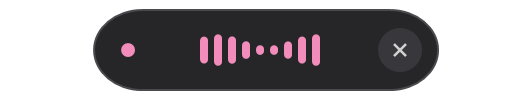
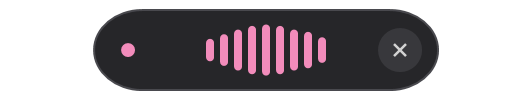
feat: amplify live waveform and center indicator above taskbar

Changed region(s): [[0.3609, 0.24, 0.6316, 0.75]]

diff --git a/src/OpenAIDictation.Windows/OverlayWindow.cs b/src/OpenAIDictation.Windows/OverlayWindow.cs
@@ -2,6 +2,7 @@ using System.Windows;
 using System.Windows.Interop;
 using System.Windows.Media;
 using System.Windows.Threading;
+using System.Diagnostics;
 
 namespace OpenAIDictation.Windows;
 
@@ -10,12 +11,13 @@ internal sealed class OverlayWindow:Window
 {
     private readonly Indicator indicator=new();
     private readonly DispatcherTimer timer;
+    private long lastTick;
     public event Action? StopRequested;
     public event Action? CancelRequested;
     public OverlayWindow()
     {
         Title="OpenAI Dictation Indicator";
-        Width=266;Height=50;WindowStyle=WindowStyle.None;ResizeMode=ResizeMode.NoResize;AllowsTransparency=true;
+        Width=IndicatorLayout.WindowWidth;Height=IndicatorLayout.WindowHeight;WindowStyle=WindowStyle.None;ResizeMode=ResizeMode.NoResize;AllowsTransparency=true;
         Background=Brushes.Transparent;Topmost=true;ShowActivated=false;ShowInTaskbar=false;Content=indicator;
         SourceInitialized+=(_,_)=>{nint handle=new WindowInteropHelper(this).Handle;NativeMethods.SetWindowLongPtr(handle,-20,NativeMethods.GetWindowLongPtr(handle,-20)|0x08000000|0x80);};
         MouseLeftButtonUp+=(_,e)=>
@@ -23,34 +25,48 @@ internal sealed class OverlayWindow:Window
             double width=indicator.State==OverlayState.Recording?172:216;
             if(e.GetPosition(this).X>(ActualWidth-width)/2+width-35 || indicator.State!=OverlayState.Recording)CancelRequested?.Invoke();else StopRequested?.Invoke();
         };
-        timer=new DispatcherTimer{Interval=TimeSpan.FromMilliseconds(33)};
-        timer.Tick+=(_,_)=>{indicator.Time+=.033;indicator.InvalidateVisual();};
-        IsVisibleChanged+=(_,_)=>{if(IsVisible)timer.Start();else timer.Stop();};
+        timer=new DispatcherTimer{Interval=TimeSpan.FromMilliseconds(16)};
+        timer.Tick+=(_,_)=>
+        {
+            long now=Stopwatch.GetTimestamp();double elapsed=Stopwatch.GetElapsedTime(lastTick,now).TotalSeconds;lastTick=now;
+            indicator.Time+=elapsed;indicator.Signal.Advance(elapsed);indicator.InvalidateVisual();
+        };
+        IsVisibleChanged+=(_,_)=>{if(IsVisible){lastTick=Stopwatch.GetTimestamp();timer.Start();}else timer.Stop();};
     }
     public void Present(OverlayState state,nint target,string? message=null)
     {
-        indicator.State=state;indicator.Message=message??"";indicator.Level=0;
+        indicator.State=state;indicator.Message=message??"";indicator.Signal.Reset();
         var monitor=NativeMethods.MonitorFromWindow(target,2);var info=new NativeMethods.MonitorInfo{Size=(uint)System.Runtime.InteropServices.Marshal.SizeOf<NativeMethods.MonitorInfo>()};
-        NativeMethods.GetMonitorInfo(monitor,ref info);Show();
+        if(!NativeMethods.GetMonitorInfo(monitor,ref info))throw new InvalidOperationException("The display could not be located.");
         uint dpiX=96,dpiY=96;NativeMethods.GetDpiForMonitor(monitor,0,out dpiX,out dpiY);
-        double scaleX=Math.Max(96,dpiX)/96.0,scaleY=Math.Max(96,dpiY)/96.0;
-        int width=(int)Math.Round(Width*scaleX),height=(int)Math.Round(Height*scaleY);
-        NativeMethods.SetWindowPos(new WindowInteropHelper(this).Handle,0,(info.Monitor.Left+info.Monitor.Right-width)/2,info.Monitor.Bottom-(int)Math.Round(40*scaleY)-height,width,height,0x0010|0x0004);
+        var bounds=IndicatorLayout.Calculate(info.Monitor.Left,info.Monitor.Right,info.Work.Top,info.Work.Bottom,dpiX==0?96:dpiX,dpiY==0?96:dpiY);
+        nint handle=new WindowInteropHelper(this).EnsureHandle();
+        Place(handle,bounds);Show();Place(handle,bounds);
         indicator.InvalidateVisual();
     }
-    public void SetLevel(float value)=>indicator.Level=value;
+    private static void Place(nint handle,IndicatorBounds bounds)=>NativeMethods.SetWindowPos(handle,0,bounds.Left,bounds.Top,bounds.Width,bounds.Height,0x0010|0x0004);
+    public void SetLevel(float value)=>indicator.Signal.Observe(value);
     private sealed class Indicator:FrameworkElement
     {
-        internal OverlayState State;internal float Level;internal double Time;internal string Message="";
-        private static readonly Brush Pink=new SolidColorBrush(Color.FromRgb(242,140,187));
+        internal OverlayState State;internal double Time;internal string Message="";
+        internal readonly VoiceSignal Signal=new();
+        private static readonly Brush Pink=Solid(Color.FromRgb(242,140,187));
+        private static readonly Brush Surface=Solid(Color.FromArgb(250,35,35,38));
+        private static readonly Brush CancelSurface=Solid(Color.FromRgb(56,56,60));
+        private static readonly Pen Border=Line(Solid(Color.FromRgb(73,73,78)),1);
+        private static readonly Pen CancelLine=Line(Brushes.LightGray,1.2);
+        private static readonly Pen SpinnerLine=Line(Pink,1.6);
+        private static Brush Solid(Color color){var value=new SolidColorBrush(color);value.Freeze();return value;}
+        private static Pen Line(Brush brush,double thickness){var value=new Pen(brush,thickness);value.Freeze();return value;}
         protected override void OnRender(DrawingContext dc)
         {
             double width=State==OverlayState.Recording?172:216,left=(ActualWidth-width)/2;
-            dc.DrawRoundedRectangle(new SolidColorBrush(Color.FromArgb(250,35,35,38)),new Pen(new SolidColorBrush(Color.FromRgb(73,73,78)),1),new Rect(left,5,width,40),24,24);
+            dc.DrawRoundedRectangle(Surface,Border,new Rect(left,5,width,40),24,24);
             dc.DrawEllipse(State==OverlayState.Error?Brushes.IndianRed:Pink,null,new Point(left+17,25),3.5,3.5);
             if(State==OverlayState.Recording)
             {
-                for(int i=0;i<9;i++){double height=3+15*Math.Min(1,Level*(.55+.45*Math.Sin(Time*13+i*.9)));dc.DrawRoundedRectangle(Pink,null,new Rect(left+53+i*7,25-height/2,4,height),2,2);}
+                double first=left+(width-(VoiceSignal.BarCount*4+(VoiceSignal.BarCount-1)*3))/2;
+                for(int i=0;i<VoiceSignal.BarCount;i++){double height=Signal.Height(i);dc.DrawRoundedRectangle(Pink,null,new Rect(first+i*7,25-height/2,4,height),2,2);}
             }
             else
             {
@@ -58,12 +74,12 @@ internal sealed class OverlayWindow:Window
                 {
                     dc.PushTransform(new RotateTransform(Time*260,left+37,25));
                     var geometry=new StreamGeometry();using(var path=geometry.Open()){path.BeginFigure(new Point(left+37,18.5),false,false);path.ArcTo(new Point(left+30.5,25),new Size(6.5,6.5),0,true,SweepDirection.Clockwise,true,false);}
-                    dc.DrawGeometry(null,new Pen(Pink,1.6),geometry);dc.Pop();
+                    dc.DrawGeometry(null,SpinnerLine,geometry);dc.Pop();
                 }
                 var text=new FormattedText(State==OverlayState.Error?"Dictation error":"Processing",System.Globalization.CultureInfo.CurrentUICulture,FlowDirection.LeftToRight,new Typeface("Segoe UI"),12,Brushes.Gainsboro,VisualTreeHelper.GetDpi(this).PixelsPerDip);dc.DrawText(text,new Point(left+51,17));
             }
-            double cx=left+width-19;dc.DrawEllipse(new SolidColorBrush(Color.FromRgb(56,56,60)),null,new Point(cx,25),11,11);
-            var pen=new Pen(Brushes.LightGray,1.2);dc.DrawLine(pen,new Point(cx-3,22),new Point(cx+3,28));dc.DrawLine(pen,new Point(cx+3,22),new Point(cx-3,28));
+            double cx=left+width-19;dc.DrawEllipse(CancelSurface,null,new Point(cx,25),11,11);
+            dc.DrawLine(CancelLine,new Point(cx-3,22),new Point(cx+3,28));dc.DrawLine(CancelLine,new Point(cx+3,22),new Point(cx-3,28));
         }
     }
 }

diff --git a/tests/OpenAIDictation.Windows.Tests/IndicatorTests.cs b/tests/OpenAIDictation.Windows.Tests/IndicatorTests.cs
@@ -1,0 +1,61 @@
+using OpenAIDictation.Windows;
+
+namespace OpenAIDictation.Windows.Tests;
+
+public sealed class IndicatorTests
+{
+    [Theory]
+    [InlineData(0,1920,0,1040,96,96)]
+    [InlineData(-2560,0,-200,1200,144,144)]
+    [InlineData(1920,5760,120,2160,192,192)]
+    [InlineData(-1919,0,0,1000,120,144)]
+    public void WindowIsCenteredOnFullMonitorAndAboveWorkArea(int left,int right,int top,int bottom,uint dx,uint dy)
+    {
+        var b=IndicatorLayout.Calculate(left,right,top,bottom,dx,dy);
+        Assert.InRange(Math.Abs((b.Left+b.Width/2d)-(left+((long)right-left)/2d)),0,.5);
+        Assert.Equal(bottom-(int)Math.Round(IndicatorLayout.TaskbarGap*dy/96d),b.Top+b.Height);
+        Assert.Equal((int)Math.Round(IndicatorLayout.WindowWidth*dx/96d),b.Width);
+        Assert.Equal((int)Math.Round(IndicatorLayout.WindowHeight*dy/96d),b.Height);
+    }
+    [Fact] public void WorkAreaNotMonitorBottomDeterminesTaskbarClearance()
+    {
+        var normal=IndicatorLayout.Calculate(0,1920,0,1040,96,96);
+        var tallTaskbar=IndicatorLayout.Calculate(0,1920,0,950,96,96);
+        Assert.Equal(90,normal.Top-tallTaskbar.Top);
+    }
+    [Fact] public void InvalidDisplaysFailWithoutOffscreenCoordinates()
+    {
+        Assert.Throws<ArgumentOutOfRangeException>(()=>IndicatorLayout.Calculate(0,0,0,1040,96,96));
+        Assert.Throws<ArgumentOutOfRangeException>(()=>IndicatorLayout.Calculate(0,1920,0,1040,0,96));
+    }
+    [Fact] public void SilenceRemainsFlatWithoutTimeDrivenFakeSpeech()
+    {
+        var signal=new VoiceSignal();signal.Observe(.01f);
+        for(int i=0;i<90;i++)signal.Advance(1d/60);
+        for(int bar=0;bar<VoiceSignal.BarCount;bar++)Assert.Equal(VoiceSignal.QuietHeight,signal.Height(bar));
+    }
+    [Fact] public void OrdinarySpeechProducesLargePeaksQuickly()
+    {
+        var signal=new VoiceSignal();signal.Observe(.12f);
+        for(int i=0;i<6;i++)signal.Advance(1d/60);
+        Assert.InRange(signal.Height(4),24,VoiceSignal.PeakHeight);
+        Assert.True(signal.Height(4)>signal.Height(0)*1.7);
+    }
+    [Fact] public void PausingSmoothlyReturnsToTheQuietLine()
+    {
+        var signal=new VoiceSignal();signal.Observe(.2f);
+        for(int i=0;i<30;i++)signal.Advance(1d/60);
+        double high=signal.Height(4);signal.Observe(0);signal.Advance(1d/60);
+        Assert.InRange(signal.Height(4),VoiceSignal.QuietHeight+1,high);
+        for(int i=0;i<60;i++)signal.Advance(1d/60);
+        for(int bar=0;bar<VoiceSignal.BarCount;bar++)Assert.InRange(signal.Height(bar),VoiceSignal.QuietHeight,VoiceSignal.QuietHeight+.1);
+    }
+    [Fact] public void NonfiniteInputAndClockValuesCannotCorruptTheDrawing()
+    {
+        var signal=new VoiceSignal();signal.Observe(float.NaN);signal.Advance(double.NaN);signal.Advance(-1);
+        Assert.Equal(VoiceSignal.QuietHeight,signal.Height(4));
+        signal.Observe(float.MaxValue);for(int i=0;i<100;i++)signal.Advance(.016);
+        Assert.InRange(signal.Height(4),VoiceSignal.QuietHeight,VoiceSignal.PeakHeight);
+        signal.Reset();Assert.Equal(VoiceSignal.QuietHeight,signal.Height(4));
+    }
+}

diff --git a/src/OpenAIDictation.Windows/VoiceSignal.cs b/src/OpenAIDictation.Windows/VoiceSignal.cs
@@ -1,0 +1,35 @@
+namespace OpenAIDictation.Windows;
+
+/// <summary>Speech-driven envelope with strong gain, quick attack and a short trailing history.</summary>
+internal sealed class VoiceSignal
+{
+    internal const int BarCount=9;
+    internal const double QuietHeight=2.5,PeakHeight=32;
+    private static readonly double[] Shape=[.38,.58,.78,.94,1,.94,.78,.58,.38];
+    private readonly double[] history=new double[BarCount];
+    private double target,envelope,historyTime;
+
+    internal void Observe(float level)
+    {
+        if(!float.IsFinite(level) || level<=.018f){target=0;return;}
+        target=Math.Sqrt(1-Math.Exp(-22*Math.Min(1,level-.018)));
+    }
+    internal void Advance(double seconds)
+    {
+        if(!double.IsFinite(seconds) || seconds<=0)return;
+        seconds=Math.Min(seconds,.1);
+        double tau=target>envelope?.028:.12;
+        envelope+=(target-envelope)*(1-Math.Exp(-seconds/tau));
+        historyTime+=seconds;
+        while(historyTime>=.035)
+        {
+            Array.Copy(history,1,history,0,history.Length-1);history[^1]=envelope;historyTime-=.035;
+        }
+    }
+    internal double Height(int bar)
+    {
+        if((uint)bar>=BarCount)throw new ArgumentOutOfRangeException(nameof(bar));
+        return QuietHeight+(PeakHeight-QuietHeight)*Shape[bar]*Math.Clamp(.85*envelope+.15*history[bar],0,1);
+    }
+    internal void Reset(){target=envelope=historyTime=0;Array.Clear(history);}
+}

diff --git a/src/OpenAIDictation.Windows/IndicatorLayout.cs b/src/OpenAIDictation.Windows/IndicatorLayout.cs
@@ -1,0 +1,20 @@
+namespace OpenAIDictation.Windows;
+
+internal readonly record struct IndicatorBounds(int Left,int Top,int Width,int Height);
+
+/// <summary>Positions the visible indicator using physical monitor/work-area coordinates.</summary>
+internal static class IndicatorLayout
+{
+    internal const double WindowWidth=266,WindowHeight=50,TaskbarGap=8;
+
+    internal static IndicatorBounds Calculate(int monitorLeft,int monitorRight,int workTop,int workBottom,uint dpiX,uint dpiY)
+    {
+        if(monitorRight<=monitorLeft || workBottom<=workTop || dpiX==0 || dpiY==0)
+            throw new ArgumentOutOfRangeException(nameof(monitorRight));
+        double scaleX=dpiX/96d,scaleY=dpiY/96d;
+        int width=(int)Math.Round(WindowWidth*scaleX),height=(int)Math.Round(WindowHeight*scaleY);
+        int left=(int)Math.Round(monitorLeft+((long)monitorRight-monitorLeft-width)/2d);
+        int top=Math.Max(workTop,workBottom-(int)Math.Round(TaskbarGap*scaleY)-height);
+        return new(left,top,width,height);
+    }
+}
